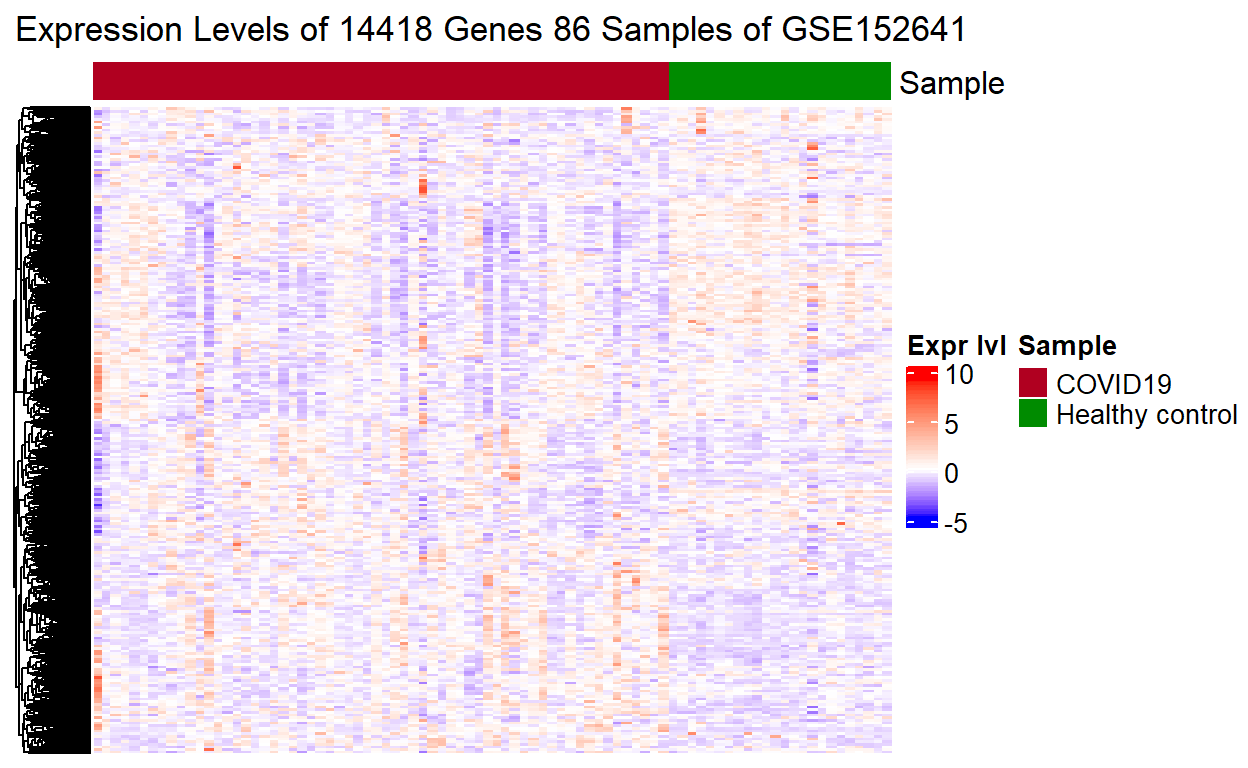
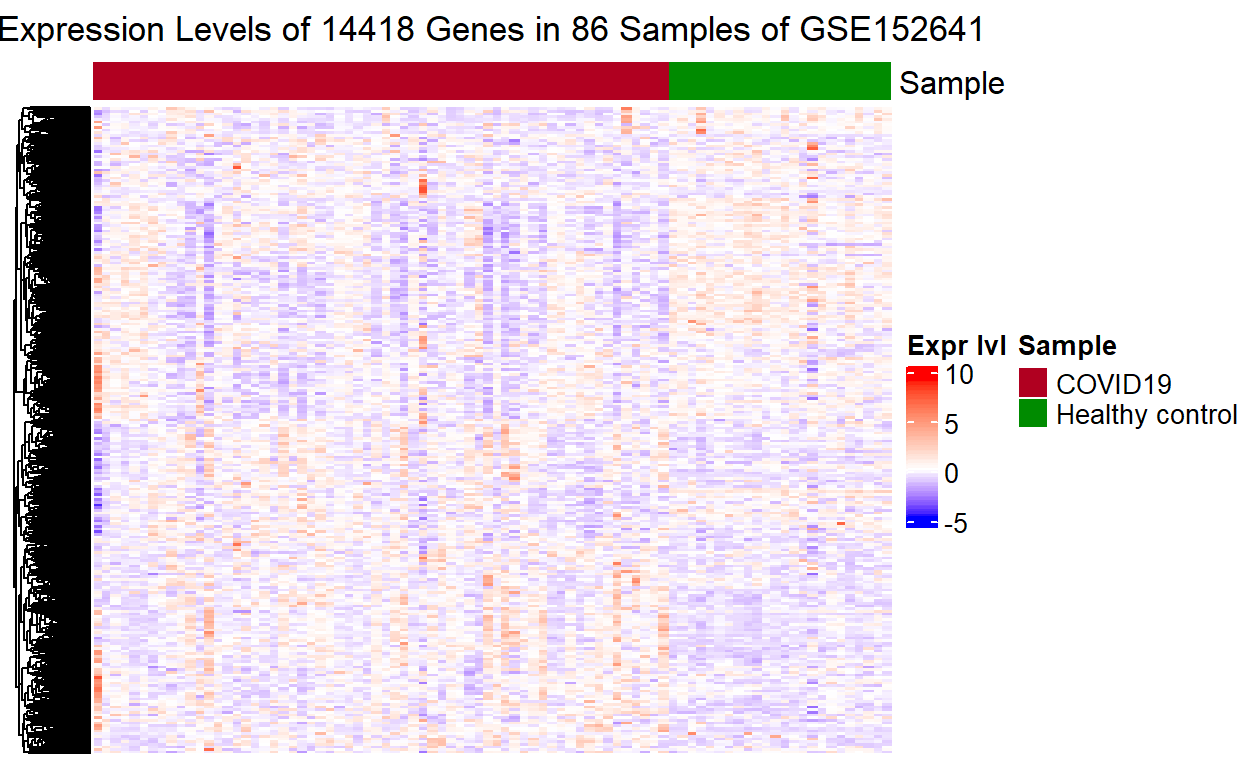
fixed plot titles

Changed region(s): [[0.0, 0.0, 0.7812, 0.0625]]

diff --git a/_posts/2021-07-26-differential-expression-analysis-edger-vs-limma/differential-expression-analysis-edger-vs-limma.html b/_posts/2021-07-26-differential-expression-analysis-edger-vs-limma/differential-expression-analysis-edger-vs-limma.html
@@ -1687,7 +1687,7 @@ Show code
     matrix              <span class='op'>=</span> <span class='va'>z_mat</span>,
     column_title        <span class='op'>=</span> <span class='fu'><a href='https://rdrr.io/r/base/paste.html'>paste</a></span><span class='op'>(</span><span class='st'>"Expression Levels of"</span>,
                                 <span class='fu'><a href='https://rdrr.io/r/base/character.html'>as.character</a></span><span class='op'>(</span><span class='fu'><a href='https://rdrr.io/r/base/nrow.html'>nrow</a></span><span class='op'>(</span><span class='va'>normalised_counts</span><span class='op'>)</span><span class='op'>)</span>,
-                                <span class='st'>"Genes 86 Samples of GSE152641"</span><span class='op'>)</span>,
+                                <span class='st'>"Genes in 86 Samples of GSE152641"</span><span class='op'>)</span>,
     name                <span class='op'>=</span> <span class='st'>"Expr lvl"</span>,
     cluster_rows        <span class='op'>=</span> <span class='cn'>TRUE</span>,
     cluster_columns     <span class='op'>=</span> <span class='cn'>FALSE</span>,
@@ -1744,7 +1744,7 @@ Show code
     matrix              <span class='op'>=</span> <span class='va'>z_mat</span><span class='op'>[</span> , <span class='va'>group_order</span><span class='op'>]</span>,
     column_title        <span class='op'>=</span> <span class='fu'><a href='https://rdrr.io/r/base/paste.html'>paste</a></span><span class='op'>(</span><span class='st'>"Expression Levels of"</span>,
                                 <span class='fu'><a href='https://rdrr.io/r/base/character.html'>as.character</a></span><span class='op'>(</span><span class='fu'><a href='https://rdrr.io/r/base/nrow.html'>nrow</a></span><span class='op'>(</span><span class='va'>normalised_counts</span><span class='op'>)</span><span class='op'>)</span>,
-                                <span class='st'>"Genes 86 Samples of GSE152641"</span><span class='op'>)</span>,
+                                <span class='st'>"Genes in 86 Samples of GSE152641"</span><span class='op'>)</span>,
     name                <span class='op'>=</span> <span class='st'>"Expr lvl"</span>,
     cluster_rows        <span class='op'>=</span> <span class='cn'>TRUE</span>,
     cluster_columns     <span class='op'>=</span> <span class='cn'>FALSE</span>,
@@ -3961,7 +3961,7 @@ Show code
 </details>
 <p><img src="differential-expression-analysis-edger-vs-limma_files/figure-html5/unnamed-chunk-21-1.png" width="624" /></p>
 </div>
-<p>The heatmap plotted from the top-hit genes (<span class="math inline">\(FDR &lt; 0.05\)</span>) from the differential expression analysis exhibits clusters of up-regulated and down-regulated expressions between the two group. This was not observed in the heatmap plotted using all the genes because here we have removed genes that show no significant evidence for differential expression for COVID-19 status (<span class="math inline">\(FDR \geq 0.05\)</span>), which introduced noises in the first heatmap.</p>
+<p>The heatmap plotted from the top-hit genes (<span class="math inline">\(\mathrm{FDR}&lt; 0.05\)</span>) from the differential expression analysis exhibits clusters of up-regulated and down-regulated expressions between the two group. This was not observed in the heatmap plotted using all the genes because here we have removed genes that show no significant evidence for differential expression for COVID-19 status (<span class="math inline">\(\mathrm{FDR}\geq 0.05\)</span>), which introduced noises in the first heatmap.</p>
 <h2 id="differential-expression-analysis-by-linear-models-of-mircroarray-limma">Differential Expression Analysis by Linear Models of MircroArray (Limma)</h2>
 <p><a href="10.18129/B9.bioc.limma">Limma</a><span class="citation" data-cites="limma">(<a href="#ref-limma" role="doc-biblioref">Ritchie et al. 2015</a>)</span> has two methods for differential expression analysis: the precision weights approach (voom) and the empirical Bayes prior trend approach (limma-trend). The later limma-trend appraoch is simpler and more robust than voom, provided that the sequencing depth across the RNA samples is reasonably consistent. According to <a href="http://www.bioconductor.org/packages/release/bioc/vignettes/limma/inst/doc/usersguide.pdf">the limma user guide</a>, the sequencing depth is considered to be reasonably consistent if the ratio of the largest library size to the smallest is not more than about 3-fold. The limma-trend method is applied here.<span class="citation" data-cites="limmaDEA">(<a href="#ref-limmaDEA" role="doc-biblioref">Phipson et al. 2016</a>)</span></p>
 <h3 id="multiple-hypothesis-testing">Multiple Hypothesis Testing</h3>

diff --git a/docs/posts/2021-07-26-differential-expression-analysis-edger-vs-limma/index.html b/docs/posts/2021-07-26-differential-expression-analysis-edger-vs-limma/index.html
@@ -2869,7 +2869,7 @@ Show code
     matrix              <span class='op'>=</span> <span class='va'>z_mat</span>,
     column_title        <span class='op'>=</span> <span class='fu'><a href='https://rdrr.io/r/base/paste.html'>paste</a></span><span class='op'>(</span><span class='st'>"Expression Levels of"</span>,
                                 <span class='fu'><a href='https://rdrr.io/r/base/character.html'>as.character</a></span><span class='op'>(</span><span class='fu'><a href='https://rdrr.io/r/base/nrow.html'>nrow</a></span><span class='op'>(</span><span class='va'>normalised_counts</span><span class='op'>)</span><span class='op'>)</span>,
-                                <span class='st'>"Genes 86 Samples of GSE152641"</span><span class='op'>)</span>,
+                                <span class='st'>"Genes in 86 Samples of GSE152641"</span><span class='op'>)</span>,
     name                <span class='op'>=</span> <span class='st'>"Expr lvl"</span>,
     cluster_rows        <span class='op'>=</span> <span class='cn'>TRUE</span>,
     cluster_columns     <span class='op'>=</span> <span class='cn'>FALSE</span>,
@@ -2926,7 +2926,7 @@ Show code
     matrix              <span class='op'>=</span> <span class='va'>z_mat</span><span class='op'>[</span> , <span class='va'>group_order</span><span class='op'>]</span>,
     column_title        <span class='op'>=</span> <span class='fu'><a href='https://rdrr.io/r/base/paste.html'>paste</a></span><span class='op'>(</span><span class='st'>"Expression Levels of"</span>,
                                 <span class='fu'><a href='https://rdrr.io/r/base/character.html'>as.character</a></span><span class='op'>(</span><span class='fu'><a href='https://rdrr.io/r/base/nrow.html'>nrow</a></span><span class='op'>(</span><span class='va'>normalised_counts</span><span class='op'>)</span><span class='op'>)</span>,
-                                <span class='st'>"Genes 86 Samples of GSE152641"</span><span class='op'>)</span>,
+                                <span class='st'>"Genes in 86 Samples of GSE152641"</span><span class='op'>)</span>,
     name                <span class='op'>=</span> <span class='st'>"Expr lvl"</span>,
     cluster_rows        <span class='op'>=</span> <span class='cn'>TRUE</span>,
     cluster_columns     <span class='op'>=</span> <span class='cn'>FALSE</span>,
@@ -5143,7 +5143,7 @@ Show code
 </details>
 <p><img src="differential-expression-analysis-edger-vs-limma_files/figure-html5/unnamed-chunk-21-1.png" width="624" /></p>
 </div>
-<p>The heatmap plotted from the top-hit genes (<span class="math inline">\(FDR &lt; 0.05\)</span>) from the differential expression analysis exhibits clusters of up-regulated and down-regulated expressions between the two group. This was not observed in the heatmap plotted using all the genes because here we have removed genes that show no significant evidence for differential expression for COVID-19 status (<span class="math inline">\(FDR \geq 0.05\)</span>), which introduced noises in the first heatmap.</p>
+<p>The heatmap plotted from the top-hit genes (<span class="math inline">\(\mathrm{FDR}&lt; 0.05\)</span>) from the differential expression analysis exhibits clusters of up-regulated and down-regulated expressions between the two group. This was not observed in the heatmap plotted using all the genes because here we have removed genes that show no significant evidence for differential expression for COVID-19 status (<span class="math inline">\(\mathrm{FDR}\geq 0.05\)</span>), which introduced noises in the first heatmap.</p>
 <h2 id="differential-expression-analysis-by-linear-models-of-mircroarray-limma">Differential Expression Analysis by Linear Models of MircroArray (Limma)</h2>
 <p><a href="10.18129/B9.bioc.limma">Limma</a><span class="citation" data-cites="limma">(<a href="#ref-limma" role="doc-biblioref">Ritchie et al. 2015</a>)</span> has two methods for differential expression analysis: the precision weights approach (voom) and the empirical Bayes prior trend approach (limma-trend). The later limma-trend appraoch is simpler and more robust than voom, provided that the sequencing depth across the RNA samples is reasonably consistent. According to <a href="http://www.bioconductor.org/packages/release/bioc/vignettes/limma/inst/doc/usersguide.pdf">the limma user guide</a>, the sequencing depth is considered to be reasonably consistent if the ratio of the largest library size to the smallest is not more than about 3-fold. The limma-trend method is applied here.<span class="citation" data-cites="limmaDEA">(<a href="#ref-limmaDEA" role="doc-biblioref">Phipson et al. 2016</a>)</span></p>
 <h3 id="multiple-hypothesis-testing">Multiple Hypothesis Testing</h3>
